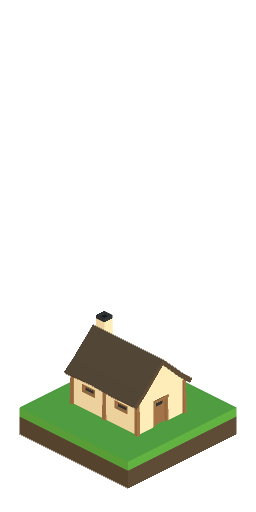
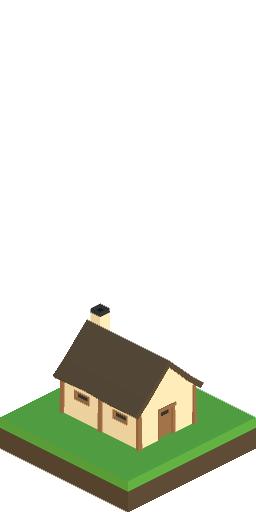
unity ui

Changed region(s): [[0.0, 0.5938, 1.0, 1.0], [0.4688, 0.6562, 0.5938, 0.6875]]

diff --git a/modules/ui/ui.js b/modules/ui/ui.js
@@ -6,7 +6,9 @@ export class UI{
         new Utils().loadCss(import.meta.url);
         window.UI = this;
 
+        
         this.placementOverlay = document.body.querySelector("#can-place-overlay");
+        this.placementCellId = null;
         this.mousePos = [0,0];
         this.init(data);
     }
@@ -129,10 +131,15 @@ export class UI{
             this.placementOverlay.style.display = 'none';
             return;
         }
+        //did not change cell
+        if(cell.gridId === this.placementCellId){
+            return;
+        }
         let selectedTile = data.tiles.find(x => x.id == tileId);
         this.placementOverlay.style.display = 'grid';
         this.placementOverlay.querySelector("img").src = window.IMG.url(selectedTile.img);
         cell.el.appendChild(this.placementOverlay);
+        this.placementCellId = cell.gridId;
     }
 
     getCellAtMouse(){

diff --git a/modules/img/img.js b/modules/img/img.js
@@ -20,8 +20,8 @@ export class Img {
     render(img, name){
         img = img ?? this.Blank;
         
-        let el = document.createElement('div');
-        el.style.backgroundImage = `url('./modules/img/${img}')`;
+        let el = document.createElement('img');
+        el.src = `./modules/img/${img}`;
         el.classList = `img ${name?.toLowerCase()}-animation`;
 
         let wrapper = document.createElement('div');

diff --git a/modules/ui/ui.css b/modules/ui/ui.css
@@ -9,6 +9,8 @@
 #can-place-overlay{
   display: none;
   position: absolute;
+  width: 153px;
+  bottom: 0;
 }
 #can-place-overlay > img{
   width: 100%;
@@ -177,8 +179,9 @@ button {
   border-radius: 3px 3px 0 0;
   height: 2em;
 }
-.card img{
+.card > img{
   position: absolute;
+  bottom: 75%;
   z-index: -1;
   width: 5em;
   margin-top: -1em;

diff --git a/modules/grid/grid.css b/modules/grid/grid.css
@@ -42,13 +42,16 @@ body{
     position: relative;
     justify-content: center;
     display: flex;
+    width: 152px;
+    height: 152px;
 }
 
 
-.grid .img{
+.grid img{
+    position: absolute;
     width: 153px;
-    height: 153px;
-    background-size: contain;
+    bottom: 0;
+    left: 0;
 }
 
 .grid .overlay{
